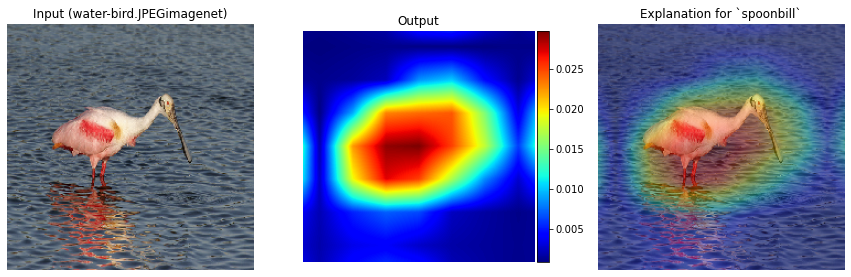
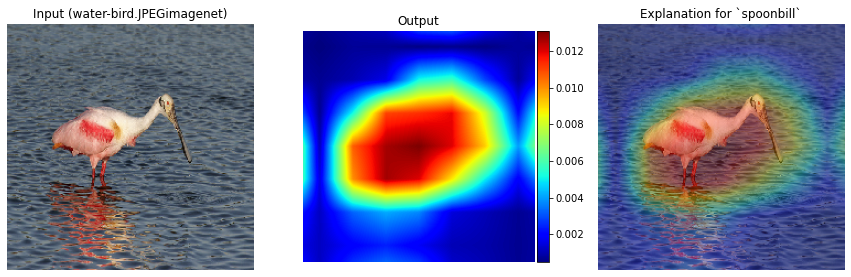
updated readme

diff --git a/SIDU_XAI.py b/SIDU_XAI.py
@@ -95,7 +95,7 @@ def generate_masks_conv_output(input_size, last_conv_output, s= 8):
         """extracting the each feature maps of last convlution layer """
         conv_out = last_conv_output[:,:,i]
         """converting last convlayer to binary mask"""
-        conv_out = conv_out > 0.5
+        conv_out = conv_out > 0.1
         conv_out = conv_out.astype('float32')
         """ upsampling the binary mask using bi-linear interpolation (feature activaions masks) """
         final_resize = resize(conv_out, up_size, order=1, mode='reflect',

diff --git a/Evalaute_SIDU_XAI_IMAGENET.py b/Evalaute_SIDU_XAI_IMAGENET.py
@@ -113,7 +113,7 @@ if __name__ == '__main__':
            size = new_masks.shape
            data = new_masks.reshape(size[0], size[1], size[2], 1)
            conv_out = last_conv_output[:,:,500]
-           conv_100 = conv_out > 0.5
+           conv_100 = conv_out > 0.1
            conv_ot100 = conv_100.astype('float32')
            mask_ind = masks[:, :, 500]
            grid_ind = grid[500,:,:]

diff --git a/README.MD b/README.MD
@@ -35,7 +35,23 @@ Further details can be found on the paper as follow,
 
 **If you use this software in an academic article, please consider citing:**
 
-		@inproceedings{9190952,
+		
+
+           @article{MUDDAMSETTY2022108604,
+  title = {Visual explanation of black-box model: Similarity Difference and Uniqueness (SIDU) method},
+  journal = {Pattern Recognition},
+  volume = {127},
+  pages = {108604},
+  year = {2022},
+  issn = {0031-3203},
+  doi = {https://doi.org/10.1016/j.patcog.2022.108604},
+  url = {https://www.sciencedirect.com/science/article/pii/S0031320322000851},
+  author = {Satya M. Muddamsetty and Mohammad N.S. Jahromi and Andreea E. Ciontos and Laura M. Fenoy and Thomas B. Moeslund},
+  keywords = {Explainable AI (XAI), CNN, Adversarial attack, Eye-tracker}
+
+         }
+
+         @inproceedings{9190952,
 		  author={Muddamsetty, Satya M. and Mohammad, N. S. Jahromi and Moeslund, Thomas B.},
 		  booktitle={2020 IEEE International Conference on Image Processing (ICIP)}, 
 		  title={SIDU: Similarity Difference And Uniqueness Method for Explainable AI}, 
